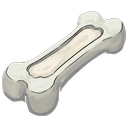
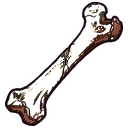
Repaint six more relics, and read the page with a screenshot
Relic sheet 3: the stone face, the furnace door, the tool wrap, the
bone whistle, the ledger and the thigh bone. Eighteen of thirty-eight
now, and the set moves to 0.52 mean luminance with 12.1% ink, from
0.58 and 4.9% before any of this.

Both sheets in this commit were read the new way. The generation
finished in about a minute, and the only reliable signal that it had
was a screenshot -- the same DOM query that reported nine false
stalls yesterday would have reported a tenth.

Claude-Session: https://claude.ai/code/session_01MHTEiJ4Rg7aeV3uPFhdWBi

diff --git a/ART_REDO.md b/ART_REDO.md
@@ -16,7 +16,7 @@ regenerated, so a set that has been re-rolled leaves the table on its own. The
 | `enemies/`  ← **the bible** | 35 | 0.30 | 31.4% | 1.7% |
 | `iso/foe/` | 70 | 0.34 | 27.3% | 3.4% |
 | `powers/` | 30 | 0.35 | 25.2% | 2.8% |
-| `relics/` | 38 | 0.55 | 9.2% | 20.3% |
+| `relics/` | 38 | 0.52 | 12.1% | 17.8% |
 
 The bible measures **0.30 mean luminance and 31.4% ink**. A set that is far
 from both is not a matter of taste — it is a set drawn to a different brief.
@@ -72,7 +72,7 @@ Install: `godot --headless --script tools/install_sheet.gd -- powers <sheet.png>
 ## 2. The 38 relic icons — right brush, wrong value
 
 The technique is correct and the VALUE is wrong by a measured margin:
-**0.55 / 9.2% ink / 20.3% blown**. They are also all lit from the upper left
+**0.52 / 12.1% ink / 17.8% blown**. They are also all lit from the upper left
 with a bright rim, which fights the one-saturated-source rule the rooms are
 built on.
 
